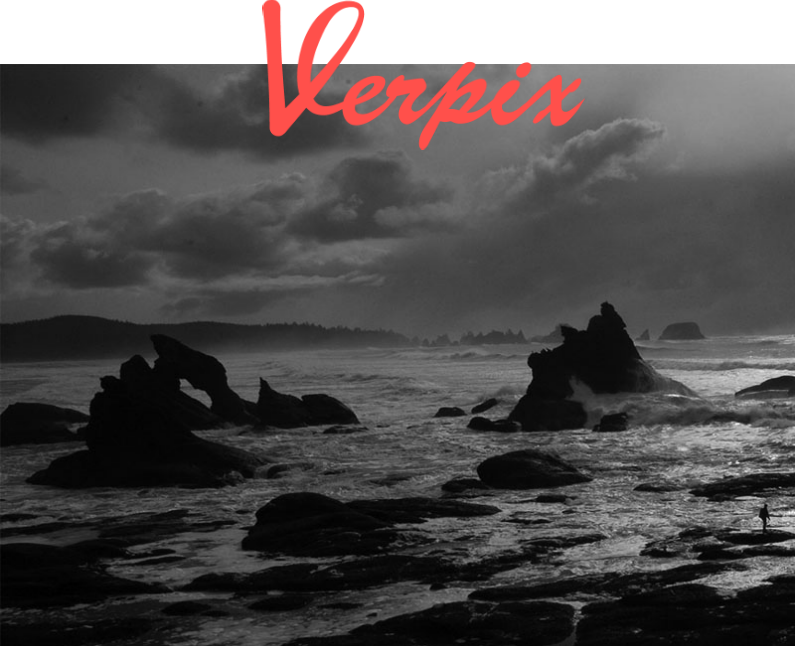
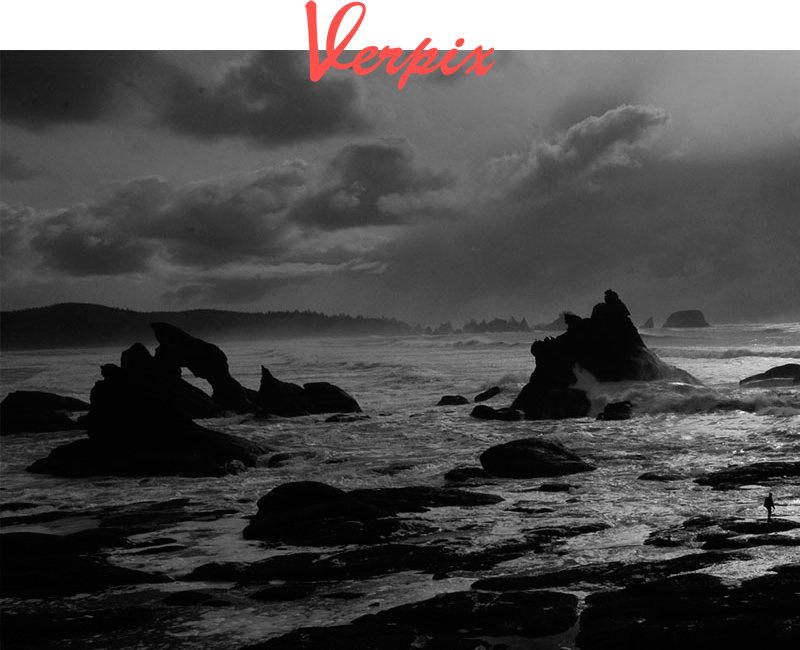
Change pictures of login page.

diff --git a/shared/styles/Login.css b/shared/styles/Login.css
@@ -3,8 +3,8 @@
 $input-width: 305px;
 $button-width: 272px;
 $show-main-bg-min-width: 820px;
-$bg-min-height: 600px;
-$bg-min-width: 1062px;
+$bg-min-height: 675px;
+$bg-min-width: 1194px;
 
 .login-component {
   margin-top: -$header-height;
